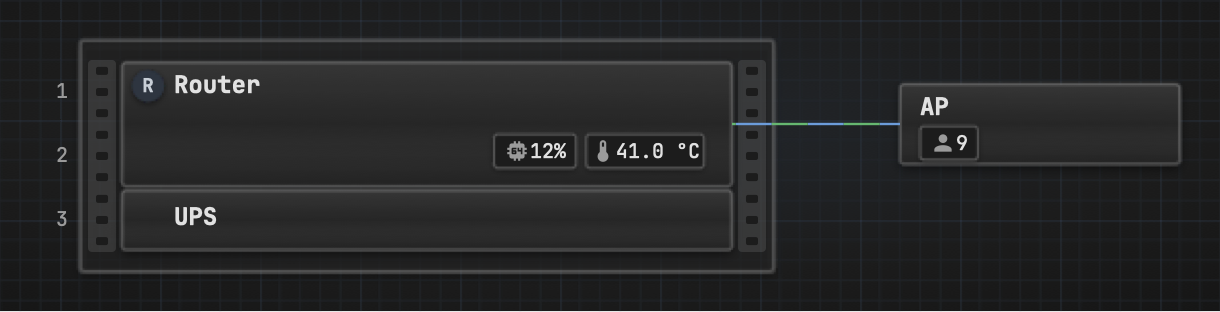
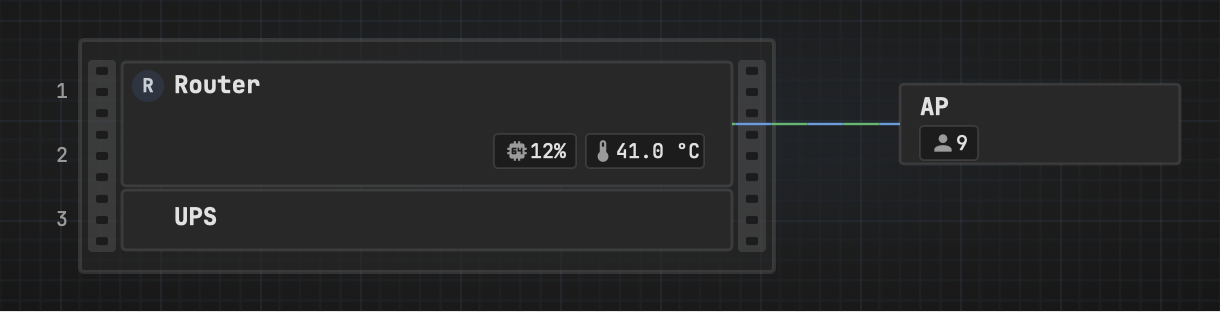
Remove the depth look and the look option

diff --git a/dist/ha-homelab-map.js b/dist/ha-homelab-map.js
@@ -1,5 +1,5 @@
 const CARD_TYPE = "ha-homelab-map";
-const VERSION = "0.101.38";
+const VERSION = "0.101.39";
 
 const RACK = Object.freeze({ unit: 32, width: Math.round((32 * 482.6) / 44.45), cap: 10, inset: 21 });
 const BOX_RADIUS = 2;
@@ -84,7 +84,6 @@ const CARD_KEYS = [
   "line_radius",
   "vlans",
   "font",
-  "look",
   "background",
   "scale",
   "fit_viewport",
@@ -113,7 +112,6 @@ const THRESHOLD_COLORS = Object.freeze({
   green: "var(--success-color, #43a047)",
 });
 
-const LOOKS = ["flat", "depth"];
 const SHADE = { fill: "#000", "fill-opacity": 0.38 };
 const SHINE = { fill: "#fff", "fill-opacity": 0.05 };
 const TEXTURES = Object.freeze({
@@ -198,7 +196,6 @@ const isCssColor = (value) =>
 const isColor = (value) => typeof value === "string" && /^#([0-9a-f]{3}|[0-9a-f]{6}|[0-9a-f]{8})$/i.test(value);
 const isImageUrl = (value) => typeof value === "string" && /^(\/(?!\/)|https?:\/\/)\S+$/i.test(value);
 const isLink = (value) => typeof value === "string" && /^\S+$/.test(value) && !/^(javascript|data|vbscript|file):/i.test(value);
-const DEPTH = Object.freeze({ big: { dy: 2.2, blur: 2.2, alpha: 0.55 }, small: { dy: 1, blur: 0.9, alpha: 0.5 } });
 const ZOOM = Object.freeze({ maxPx: 4, step: 2.5, tapMs: 320, tapPx: 30, dragPx: 6, compactWidth: 520 });
 const FX = Object.freeze({ fps: 30, period: 18, lineWidth: 1.2, maxRatio: 2 });
 const NO_DASH = Object.freeze([]);
@@ -299,12 +296,9 @@ const STYLES = `
   .badge .bframe { fill: var(--hhm-badge); stroke: var(--hhm-badge-border); stroke-width: 1; }
   .badge .btext { fill: var(--hhm-text); font-variant-numeric: tabular-nums; }
   .clickable { cursor: pointer; }
-  .depth .rail { fill: url(#hhm-rail); }
-  .depth .hole { fill: color-mix(in srgb, #000000 45%, var(--hhm-bg)); }
   .bg-line { fill: none; stroke: color-mix(in srgb, #6c9cda 22%, var(--hhm-bg)); stroke-width: .8; }
   .bg-fine { fill: none; stroke: color-mix(in srgb, #6c9cda 10%, var(--hhm-bg)); stroke-width: .5; }
   .bg-dot { fill: color-mix(in srgb, var(--hhm-text) 13%, var(--hhm-bg)); }
-  .lift { fill: url(#hhm-lift); stroke: none; pointer-events: none; }
   .dbg-grid, .dbg-box { pointer-events: none; }
   .dbg-box { fill: none; stroke: #ff4081; stroke-width: .6; stroke-dasharray: 2 2; }
   .dbg-tip { position: absolute; z-index: 5; pointer-events: none; padding: 2px 6px; border-radius: 4px; background: rgba(0,0,0,.8); color: #fff; font: 11px/1.4 var(--hhm-font, monospace); white-space: pre; display: none; }
@@ -820,7 +814,6 @@ const validateConfig = (config) => {
     if (!isPair(config.toggles_at)) fail("toggles_at", "expected [x, y]");
     if (!["vlan_toggle", "power_toggle", "animation_toggle", "debug_toggle"].some((key) => config[key])) fail("toggles_at", "has no effect without a switch");
   }
-  if (config.look !== undefined && !LOOKS.includes(config.look)) fail("look", `expected one of ${LOOKS.join(", ")}`);
   if (config.font !== undefined && !(typeof config.font === "string" && /^[\w .-]+$/.test(config.font.trim()) && config.font.trim())) {
     fail("font", "expected a font family name such as JetBrains Mono");
   }
@@ -888,7 +881,6 @@ class HaHomelabMap extends HTMLElement {
   #disks = [];
   #fans = [];
   #cabled = new Set();
-  #deep = false;
   #defs = null;
   #textures = new Set();
   #card;
@@ -1441,26 +1433,6 @@ class HaHomelabMap extends HTMLElement {
     svgEl("line", { class: "hatch-line", x1: 0, y1: 0, x2: 0, y2: 5 }, hatch);
     this.#defs = defs;
     this.#textures = new Set();
-    this.#deep = config.look === "depth";
-    if (this.#deep) {
-      svg.classList.add("depth");
-      for (const [id, { dy, blur, alpha }] of [["hhm-shadow", DEPTH.big], ["hhm-shadow-sm", DEPTH.small]]) {
-        const f = svgEl("filter", { id, x: "-10%", y: "-10%", width: "120%", height: "140%" }, defs);
-        svgEl("feGaussianBlur", { in: "SourceAlpha", stdDeviation: blur }, f);
-        svgEl("feOffset", { dy }, f);
-        const ct = svgEl("feComponentTransfer", {}, f);
-        svgEl("feFuncA", { type: "linear", slope: alpha }, ct);
-        const merge = svgEl("feMerge", {}, f);
-        svgEl("feMergeNode", {}, merge);
-        svgEl("feMergeNode", { in: "SourceGraphic" }, merge);
-      }
-      const lift = svgEl("linearGradient", { id: "hhm-lift", x1: 0, y1: 0, x2: 0, y2: 1 }, defs);
-      for (const [offset, color, opacity] of [[0, "#ffffff", 0.07], [0.5, "#ffffff", 0], [1, "#000000", 0.12]]) {
-        svgEl("stop", { offset, "stop-color": color, "stop-opacity": opacity }, lift);
-      }
-      const rail = svgEl("linearGradient", { id: "hhm-rail", x1: 0, y1: 0, x2: 1, y2: 0 }, defs);
-      for (const [offset, color] of [[0, "#5a6370"], [0.5, "#3a414b"], [1, "#2a2f36"]]) svgEl("stop", { offset, "stop-color": color }, rail);
-    }
     this.#drawBackground(svg, defs, config.background);
     const racks = svgEl("g", {}, svg);
     const devices = svgEl("g", {}, svg);
@@ -1581,18 +1553,11 @@ class HaHomelabMap extends HTMLElement {
     return id;
   }
 
-  #raise(el, size = "big") {
-    if (this.#deep) el.setAttribute("filter", `url(#${size === "big" ? "hhm-shadow" : "hhm-shadow-sm"})`);
-    return el;
-  }
 
-  #lift(parent, x, y, w, h, rx) {
-    if (this.#deep) svgEl("rect", { class: "lift", x, y, width: w, height: h, rx }, parent);
-  }
 
   #drawRack(parent, { dev, x, y, w, h }) {
     const g = svgEl("g", { class: "rack", "data-id": dev.id }, parent);
-    this.#raise(svgEl("rect", { class: "cab", x, y, width: w, height: h, rx: BOX_RADIUS }, g));
+    svgEl("rect", { class: "cab", x, y, width: w, height: h, rx: BOX_RADIUS }, g);
     for (const rx of [4, w - 18]) {
       svgEl("rect", { class: "rail", x: x + rx, y: y + RACK.cap, width: 14, height: dev.units * RACK.unit, rx: 2 }, g);
     }
@@ -1610,9 +1575,8 @@ class HaHomelabMap extends HTMLElement {
 
   #drawDevice(parent, { dev, x, y, w, h }) {
     const g = svgEl("g", { class: `dev ${dev.type}`, "data-id": dev.id }, parent);
-    this.#raise(svgEl("rect", { class: "frame", x, y, width: w, height: h, rx: BOX_RADIUS }, g));
+    svgEl("rect", { class: "frame", x, y, width: w, height: h, rx: BOX_RADIUS }, g);
     this.#applyTexture(g, dev, x, y, w, h);
-    this.#lift(g, x, y, w, h, BOX_RADIUS);
     if (dev.status_entity) {
       g.dataset.entity = dev.status_entity;
       g.classList.add("clickable");
@@ -1659,7 +1623,7 @@ class HaHomelabMap extends HTMLElement {
     if (dev.label !== undefined && dev.label !== "") {
       const text = String(dev.label);
       const tw = Math.min(text.length * 7 * 0.6 + 6, w - 4);
-      this.#raise(svgEl("rect", { class: "plabel-bg", x: x + (w - tw) / 2, y: y + h - 5, width: tw, height: 10, rx: 1.5 }, g), "small");
+      svgEl("rect", { class: "plabel-bg", x: x + (w - tw) / 2, y: y + h - 5, width: tw, height: 10, rx: 1.5 }, g);
       svgEl("text", { class: "plabel", x: x + w / 2, y: y + h + 2.5, "text-anchor": "middle" }, g).textContent = text;
     }
     this.#pools.push({ dev, g, title, fill, y: y + 1, h: h - 2 });
@@ -1675,7 +1639,7 @@ class HaHomelabMap extends HTMLElement {
       g.classList.add("clickable");
     }
     const k = w / DISK.size[0];
-    this.#raise(svgEl("rect", { class: "dbody", x, y, width: w, height: h, rx: 2.5 * k }, g), "small");
+    svgEl("rect", { class: "dbody", x, y, width: w, height: h, rx: 2.5 * k }, g);
     const disk = { dev, g, title, temp: null, spin: null };
     if (dev.type === "hdd") {
       if (!this.#platterDef) {
@@ -1722,16 +1686,14 @@ class HaHomelabMap extends HTMLElement {
     const title = svgEl("title", {}, g);
     const holes = [];
     if (dev.type === "fanpanel") {
-      this.#raise(svgEl("rect", { class: "frame", x, y, width: w, height: h, rx: BOX_RADIUS }, g));
+      svgEl("rect", { class: "frame", x, y, width: w, height: h, rx: BOX_RADIUS }, g);
       this.#applyTexture(g, dev, x, y, w, h);
-      this.#lift(g, x, y, w, h, BOX_RADIUS);
       const count = dev.count ?? FAN.count;
       const step = w / count;
       const r = Math.max(2, Math.min(h / 2 - 3, step / 2 - 4));
       for (let i = 0; i < count; i++) holes.push([x + step * (i + 0.5), y + h / 2, r]);
     } else {
-      this.#raise(svgEl("rect", { class: "frame", x, y, width: w, height: w, rx: w * 0.08 }, g), "small");
-      this.#lift(g, x, y, w, w, w * 0.08);
+      svgEl("rect", { class: "frame", x, y, width: w, height: w, rx: w * 0.08 }, g);
       const inset = w * 0.11;
       for (const [sx, sy] of [[x + inset, y + inset], [x + w - inset, y + inset], [x + inset, y + w - inset], [x + w - inset, y + w - inset]]) {
         svgEl("circle", { class: "fan-screw", cx: sx, cy: sy, r: w * 0.045 }, g);
@@ -1920,7 +1882,7 @@ class HaHomelabMap extends HTMLElement {
     if (dev.toggle) g.dataset.toggle = dev.toggle;
     else g.dataset.entity = dev.entity;
     const title = svgEl("title", {}, g);
-    const frame = dev.show_border ? this.#raise(svgEl("rect", { class: "bframe", x, y, height: lineH + 2 * pad[1], rx: BOX_RADIUS }, g), "small") : null;
+    const frame = dev.show_border ? svgEl("rect", { class: "bframe", x, y, height: lineH + 2 * pad[1], rx: BOX_RADIUS }, g) : null;
     const content = svgEl("g", {}, g);
     const icon = iconSize ? this.#drawIcon(content, dev.icon, x + pad[0], y + pad[1] + (lineH - iconSize) / 2, iconSize) : null;
     const textX = x + pad[0] + iconSize;
@@ -1940,7 +1902,7 @@ class HaHomelabMap extends HTMLElement {
     }
     const title = svgEl("title", {}, g);
     const r = w / 2;
-    this.#raise(svgEl("circle", { class: "chip-bg", cx: x + r, cy: y + r, r }, g), "small");
+    svgEl("circle", { class: "chip-bg", cx: x + r, cy: y + r, r }, g);
     const inner = w * CHIP.inner;
     const at = (w - inner) / 2;
     if (dev.image) imageEl({ href: dev.image, x: x + at, y: y + at, width: inner, height: inner }, g);

diff --git a/test/check.js b/test/check.js
@@ -197,7 +197,7 @@ try {
 expect("debug_toggle not boolean", { items: [], debug_toggle: "yes" }, "debug_toggle: expected true or false");
 expect("animation_toggle not boolean", { items: [], animation_toggle: 1 }, "animation_toggle: expected true or false");
 expect("led caption without size", { items: [{ type: "led", id: "e", at: [0, 0], color: "#fff", caption: "LAN" }] }, "items[0].caption: needs 'size'");
-expect("look bad", { items: [], look: "3d" }, "look: expected one of flat, depth");
+expect("look removed", { items: [], look: "depth" }, "card.look: unknown property");
 expect("background bad", { items: [], background: "stars" }, "background: expected none, blueprint, pegboard, vignette");
 expect(
   "texture bad",

diff --git a/AGENTS.md b/AGENTS.md
@@ -43,7 +43,6 @@ Everything is placed by hand with pixel coordinates. The card does no automatic 
 type: custom:ha-homelab-map
 line_radius: 6            # px, every line corner
 font: JetBrains Mono      # optional; bundled; falls back to the theme font
-look: depth               # optional; flat (default) | depth = subtle shadows and relief
 background: blueprint     # optional; none | blueprint | pegboard | vignette | "#rrggbb" | image URL (/local/…)
 vlans: {LAN: "#6c9cda", IoT: "#66b771"}   # name → colour, used by datalines and LEDs
 scale: 1                  # or fit_viewport: true (fills window height; scale ignored)
@@ -85,7 +84,7 @@ powerlines: []
 
 **Badge thresholds** – the one way to flag a problem value: `thresholds: [{above: 70, color: orange}, {above: 85, color: red}]` or `{below: 20, color: red}`. Reached means equal or beyond; when several are reached the last one in the list wins (list mild → severe); `above` and `below` can be mixed. The icon and value text take the colour; nothing blinks or hides. Colours: `red`, `orange`, `green` (theme error/warning/success), `yellow`, or any CSS colour. Compared against the raw entity number in its own unit; non-numeric or unavailable states are never coloured. Don't put thresholds on values that are normally at their limit (an NVR disk is always ~100 % full).
 
-**Fan speed** (`fanpanel`, `fan`): the `entity` value is mapped over `range: [slow, fast]` (default `[0, 100]`; e.g. a temperature `[27, 35]` or RPM `[0, 3000]`) – at or below `slow` the fan turns slowly, at or above `fast` quickly. `on` = full speed; `0` or `off` = stopped; unavailable = slow; no `entity` = always slow. Whether a stopped or slow fan is a fault is up to the user: `thresholds` colour the rotor (e.g. `{below: 500, color: red}` for RPM). Rotors freeze with the Animations switch.
+**Fan speed** (`fanpanel`, `fan`): the `entity` value is mapped over `range: [slow, fast]` (default `[0, 100]`; e.g. a temperature `[27, 35]` or RPM `[0, 3000]`) – at or below `slow` the fan turns slowly, at or above `fast` quickly. `on` = full speed; `0`, `off`, unavailable, unknown or a missing entity = stopped; no `entity` = always slow. Whether a stopped or slow fan is a fault is up to the user: `thresholds` colour the rotor (e.g. `{below: 500, color: red}` for RPM). Rotors freeze with the Animations switch.
 
 **Device frame status** (`device`, `rackdevice`): with `status_entity` the frame outline turns red (down) or orange (warn); OK keeps the normal outline. Without `status_map`: down for `unavailable`, `unknown`, `off`, `down`, `offline`, `disconnected`, `not_home` or a missing entity, anything else is OK (so a CPU-load sensor means "reachable"). With `status_map` (`{LB: down, OB: warn, OL: ok}`), the state is matched per word (`OL CHRG` matches `OL`), the first listed key wins, and an unlisted state is `warn`. Clicking the device (outside its badges, chips and ports) opens Home Assistant's more-info for `status_entity`; devices without it are not clickable, and devices never take a `url` (only chips do). Don't use the same entity as the device's logo chip `status_entity` – that shows the same thing twice.
 

diff --git a/docs/configuration.md b/docs/configuration.md
@@ -11,7 +11,6 @@
 - [Switches](#switches)
 - [Pan and zoom](#pan-and-zoom)
 - [Font](#font)
-- [look](#look)
 - [background](#background)
 - [debug](#debug)
 - [Errors](#errors)
@@ -39,7 +38,6 @@ Some screenshots below have `debug: true` turned on, which draws the coordinate 
 ```yaml
 type: custom:ha-homelab-map
 font: JetBrains Mono
-look: depth
 background: blueprint
 line_radius: 6
 vlans:
@@ -65,7 +63,6 @@ powerlines: []
 | `powerlines` | | See [Powerlines](#powerlines) |
 | `vlans` | | Colour for each VLAN name, used by datalines and LEDs |
 | `font` | theme font | Font family for all text on the card – see [Font](#font) |
-| `look` | `flat` | `depth` adds subtle shadows and relief – see [look](#look) |
 | `background` | `none` | A decorative backdrop behind the map – see [background](#background) |
 | `line_radius` | `6` | Radius of every line corner, in px |
 | `scale` | `1` | Zoom of the whole map: `1.5` = 150 %. The map never gets wider than the card; zoom in with a pinch or ctrl/⌘ + wheel for more |
@@ -985,14 +982,6 @@ font: JetBrains Mono
 ```
 
 [JetBrains Mono](https://www.jetbrains.com/lp/mono/) is bundled with the card (SIL Open Font License) and loaded from the card's own folder – nothing is fetched from the internet. Any other name works if that font is installed on the viewing device. A monospace font also makes badge widths exact, which helps when aligning rows.
-
-## `look`
-
-`look: depth` gives the map a subtle 3D feel: soft shadows under racks, devices, badges and chips, a slight lift on frames, metallic rack rails and darker rack holes. Lines and animations are unchanged. The default `flat` draws everything without shadows.
-
-<img src="images/look_flat.png" width="610" alt="look_flat">
-
-<img src="images/look_depth.png" width="610" alt="look_depth">
 
 ## `background`
 

diff --git a/README.md b/README.md
@@ -32,7 +32,7 @@ You place everything yourself with pixel coordinates, so the map looks exactly l
 - **Storage** – ZFS/RAID pools with a usage fill, HDDs with spinning platters, SSDs, empty bays, temperatures and health LEDs.
 - **Fans** – rack fan panels and single fans whose speed follows a temperature or RPM sensor.
 - **VLAN LEDs** with captions, labels, and a bundled **JetBrains Mono** font for a technical look.
-- **Looks** – optional 3D depth, decorative backgrounds (blueprint, pegboard, vignette, a colour or your own image) and device textures, including styles inspired by TP-Link Omada, MikroTik, UniFi, Dell and HPE hardware.
+- **Looks** – decorative backgrounds (blueprint, pegboard, vignette, a colour or your own image) and device textures, including styles inspired by TP-Link Omada, MikroTik, UniFi, Dell and HPE hardware.
 - **Pan & zoom** – pinch, wheel or double-tap to zoom and drag to move, so a big map stays usable on a phone.
 - **Built for daily use** – switches for VLANs / Power / Animations / Debug (folded into a ⚙ button on narrow screens), a debug grid with coordinates and item ids, clear error messages, animation paused when the card is out of view, and updates only for items whose entities changed.
 

diff --git a/CHANGELOG.md b/CHANGELOG.md
@@ -2,7 +2,6 @@
 
 ## 0.102.0 – unreleased
 
-- `look: depth` – optional subtle 3D: soft shadows, lifted frames, metallic rack rails.
 - `background` – `blueprint`, `pegboard`, `vignette`, a colour or an image URL behind the map.
 - Pan & zoom – pinch, ctrl/⌘ + wheel, trackpad pinch or double-tap to zoom (up to 4 screen px per map px), drag to move, ⤢ to reset.
 - Device textures – `texture` and `texture_opacity` on devices, rackdevices and fan panels: `hex`, `mesh`, `slots`, `grille`, `carbon`, `ribbed`, `brushed`, `glass`, and vendor-inspired `tpl`, `mtk`, `unf`, `dll`, `hpe`.
